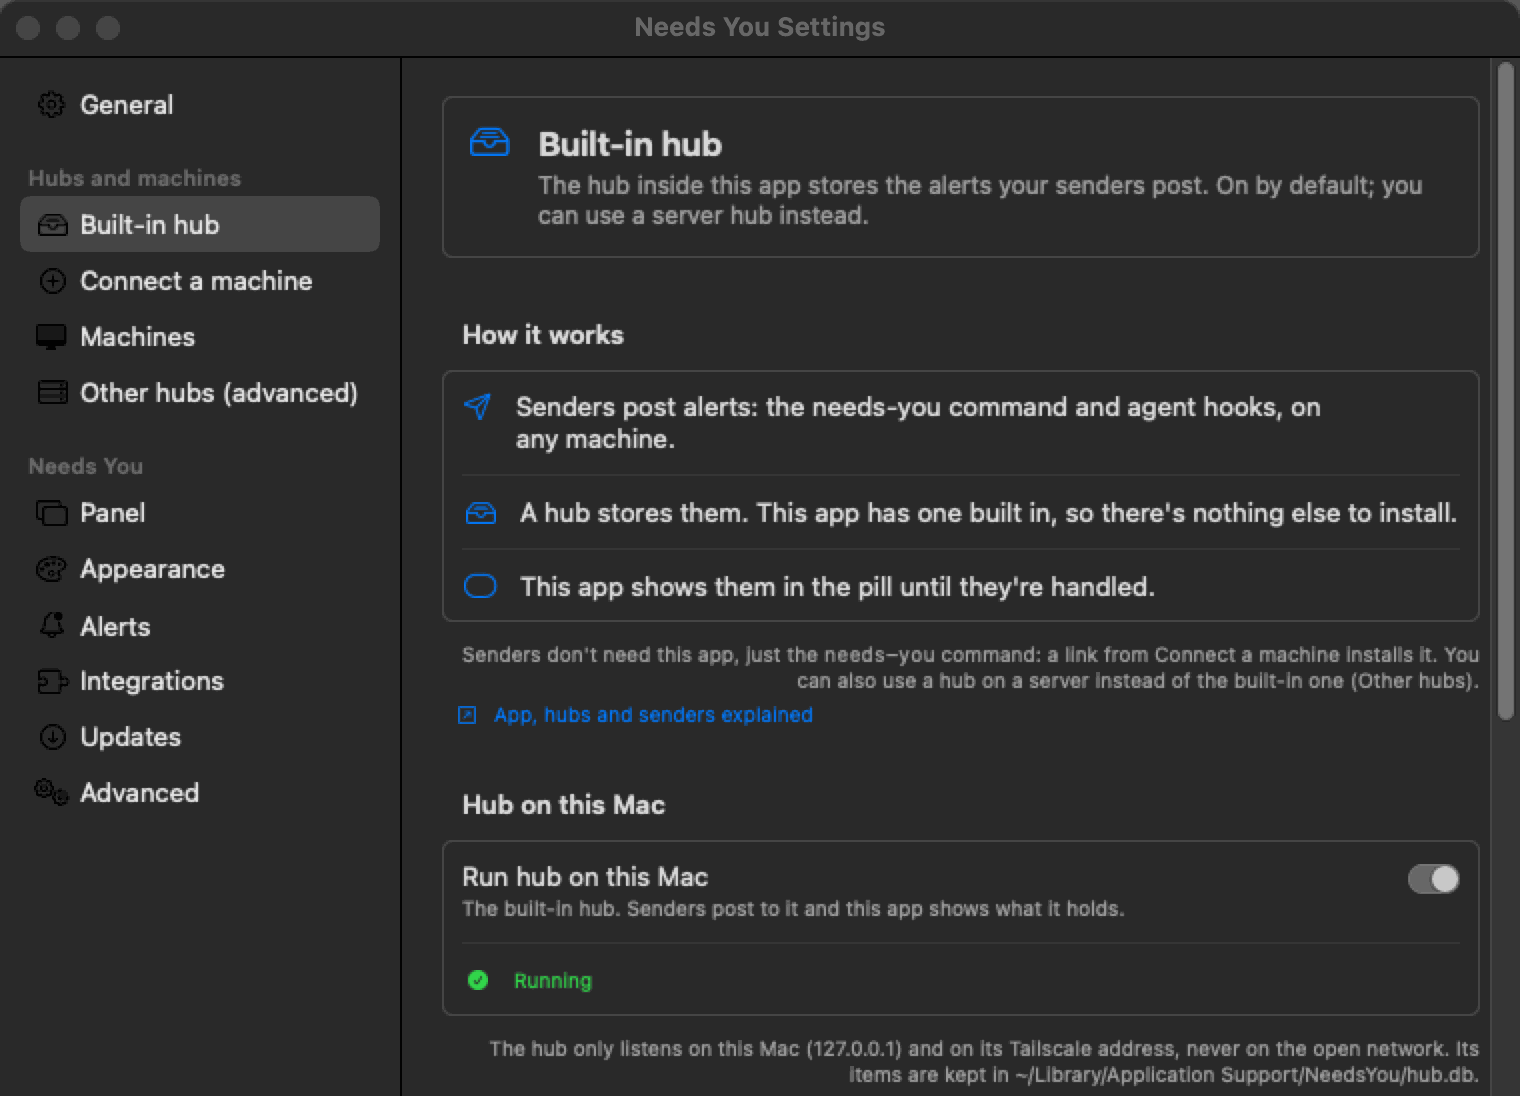
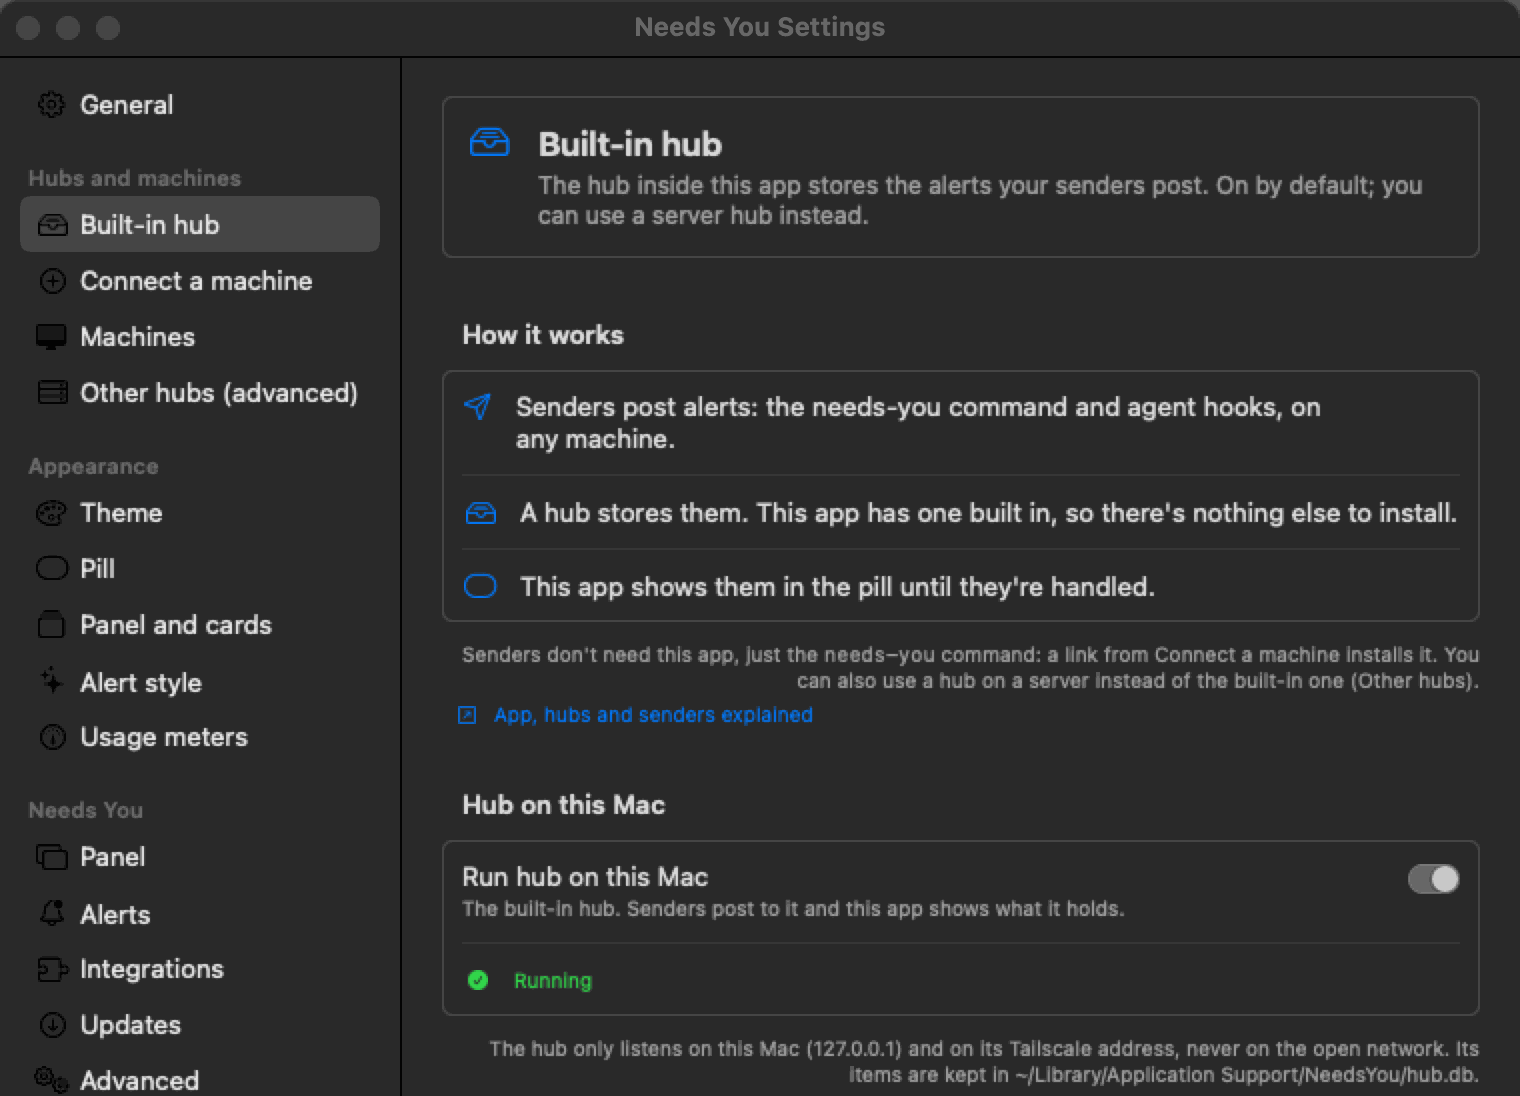
site: retake the screenshots after the appearance work (default look: Rounded, Medium, Comfortable, Glass)
The panel and the pills now show the usage meters; the pills are taller (46 pt) and the
Personal panel shows the usage section. Settings screenshots show the Appearance sidebar group.
Alt text follows.

diff --git a/site/guides/mac-app.html b/site/guides/mac-app.html
@@ -73,7 +73,7 @@
 <p>The exact settings and how the app passes options to its hub are in <a data-repo="/blob/main/mac/README.md" href="https://github.com/tayharris/needs-you/blob/main/mac/README.md">mac/README.md</a>.</p>
 <h2 id="using-it">Using it <a class="anchor" href="#using-it" aria-label="Link to this section">#</a></h2>
 <figure class="doc-fig">
-<div class="stage"><img src="../img/panel.png" width="376" height="926" alt="The open panel on the Work tab: an urgent deploy approval with three links, a Claude is waiting card with a three-step checklist, a CI failure with a link to the run, and a low-priority branch cleanup, each with Done, Dismiss and Snooze." loading="lazy" decoding="async"></div>
+<div class="stage"><img src="../img/panel.png" width="376" height="926" alt="The open panel on the Work tab: usage meters for Claude and Codex at the top, then an urgent deploy approval with three links, a Claude is waiting card with a three-step checklist, and a CI failure with copy chips and a link to the run, each with Done, Dismiss and Snooze." loading="lazy" decoding="async"></div>
 </figure>
 <div class="table-wrap"><table class="doc-table">
 <thead><tr><th>You see</th><th>It means</th></tr></thead>
@@ -88,14 +88,14 @@
 </table></div>
 <p>The pill when nothing needs you, with 4 work items and 1 personal one waiting (count only, then split work | personal and count and top item), and a new item springing out:</p>
 <figure class="doc-fig">
-<div class="stage"><img src="../img/pill-idle.png" width="147" height="43" alt="The idle pill: Nothing needs you, with session and weekly usage bars under it." loading="lazy" decoding="async"> <img src="../img/pill-count.png" width="66" height="38" alt="The count pill: 4, with 1 personal shown faintly, in a red ring." loading="lazy" decoding="async"> <img src="../img/pill-split.png" width="90" height="38" alt="The split pill: W 4, P 1." loading="lazy" decoding="async"> <img src="../img/pill-top-item.png" width="248" height="38" alt="The pill showing the count and the top item&#x27;s title." loading="lazy" decoding="async"></div>
+<div class="stage"><img src="../img/pill-idle.png" width="147" height="43" alt="The idle pill: Nothing needs you, with session and weekly usage bars under it." loading="lazy" decoding="async"> <img src="../img/pill-count.png" width="66" height="46" alt="The count pill: 4, with 1 personal shown faintly, in a red ring, with usage bars under it." loading="lazy" decoding="async"> <img src="../img/pill-split.png" width="90" height="46" alt="The split pill: W 4, P 1." loading="lazy" decoding="async"> <img src="../img/pill-top-item.png" width="248" height="46" alt="The pill showing the count and the top item&#x27;s title." loading="lazy" decoding="async"></div>
 </figure>
 <figure class="doc-fig">
 <div class="stage"><img src="../img/preview.png" width="336" height="94" alt="An arrival preview: Approve the prod deploy of api v2.14, needs you, from build-box, with a button reading Approve, then ci.example.com in fainter text, then an arrow." loading="lazy" decoding="async"></div>
 </figure>
 <p>The open panel shows one context at a time; the tab in its header switches (here, Personal):</p>
 <figure class="doc-fig">
-<div class="stage"><img src="../img/panel-personal.png" width="376" height="266" alt="The open panel on the Personal tab with one low-priority card: Renew example.org, it expires in 9 days, with a Registrar link." loading="lazy" decoding="async"></div>
+<div class="stage"><img src="../img/panel-personal.png" width="376" height="400" alt="The open panel on the Personal tab: the usage meters, then one low-priority card: Renew example.org, it expires in 9 days, with a Registrar link." loading="lazy" decoding="async"></div>
 </figure>
 <ul>
 <li><strong>Click</strong> the pill to expand the cards. A click anywhere else closes it, as do <strong>Escape</strong>, the chevron, a double-click on the header bar and the shortcut. To keep it up while you read a card next to the page its link opened, turn off <strong>Settings → Panel → Open panel → Collapse when clicking elsewhere</strong>. If the glass is hard to read over bright windows, raise <strong>Settings → Appearance → Panel and cards → Background darkness</strong>.</li>

diff --git a/site/index.html b/site/index.html
@@ -154,7 +154,7 @@
         <figure class="shot see-panel">
           <div class="stage">
             <img src="img/panel.png" width="376" height="926" loading="lazy" decoding="async"
-                 alt="The open panel on the Work tab with four cards. Urgent: Approve the prod deploy of api v2.14, from build-box, with Approve, Canary dashboard and Slack thread links. Normal: Claude is waiting for you on acme-web, with a three-step checklist whose first step is ticked; and CI failed on main for acme-web, with a link to the run. Low: a branch with 2 unpushed commits. Each card has Done, Dismiss and Snooze.">
+                 alt="The open panel on the Work tab. At the top, usage meters: Claude on devbox at 86% of its session (amber) and 41% weekly, Codex on build-box at 23% and 58%. Urgent: Approve the prod deploy of api v2.14, from build-box, with Approve, Canary dashboard and Slack thread links. Normal: Claude is waiting for you on acme-web, with a three-step checklist whose first step is ticked; and CI failed on main for acme-web, with copy chips for the failing test and file and a link to the run. Each card has Done, Dismiss and Snooze.">
           </div>
           <figcaption>Click the pill for the cards, most urgent first, each with its links, steps, and Done, Dismiss and Snooze.</figcaption>
         </figure>
@@ -168,10 +168,10 @@
           </li>
           <li>
             <span class="state-shot">
-              <img src="img/pill-count.png" width="66" height="38" loading="lazy" decoding="async"
-                   alt="The count pill with a red ring: 4 work items, and 1 personal shown faintly.">
-              <img src="img/pill-split.png" width="90" height="38" loading="lazy" decoding="async"
-                   alt="The same pill split by context: W 4, P 1.">
+              <img src="img/pill-count.png" width="66" height="46" loading="lazy" decoding="async"
+                   alt="The count pill with a red ring: 4 work items, and 1 personal shown faintly, with session and weekly usage bars under the count.">
+              <img src="img/pill-split.png" width="90" height="46" loading="lazy" decoding="async"
+                   alt="The same pill split by context: W 4, P 1, with its usage bars.">
             </span>
             <p><strong>Something waiting.</strong> A count, ringed in the top priority's colour: red is urgent, amber normal, slate low. It can split work and personal.</p>
           </li>

diff --git a/site/guides/testers.html b/site/guides/testers.html
@@ -154,10 +154,10 @@ shasum -a 256 -c SHA256SUMS --ignore-missing     # the DMG's line should say OK<
 <h2 id="7-what-to-try">7. What to try <a class="anchor" href="#7-what-to-try" aria-label="Link to this section">#</a></h2>
 <p>Tick off what you get to; anything that surprises you is worth a report. With a few items waiting, the pill shows a count, a new one springs out for a moment, and a click opens the cards (these are example items):</p>
 <figure class="doc-fig">
-<div class="stage"><img src="../img/pill-count.png" width="66" height="38" alt="The count pill: 4, with 1 personal item shown faintly, in a red ring." loading="lazy" decoding="async"> <img src="../img/preview.png" width="336" height="94" alt="An arrival preview: Approve the prod deploy of api v2.14, needs you, from build-box, with a button reading Approve, then ci.example.com in fainter text, then an arrow." loading="lazy" decoding="async"></div>
+<div class="stage"><img src="../img/pill-count.png" width="66" height="46" alt="The count pill: 4, with 1 personal item shown faintly, in a red ring, with usage bars under it." loading="lazy" decoding="async"> <img src="../img/preview.png" width="336" height="94" alt="An arrival preview: Approve the prod deploy of api v2.14, needs you, from build-box, with a button reading Approve, then ci.example.com in fainter text, then an arrow." loading="lazy" decoding="async"></div>
 </figure>
 <figure class="doc-fig">
-<div class="stage"><img src="../img/panel.png" width="376" height="926" alt="The open panel on the Work tab: an urgent deploy approval with three links, a Claude is waiting card with a three-step checklist, a CI failure with a link to the run, and a low-priority branch cleanup, each with Done, Dismiss and Snooze." loading="lazy" decoding="async"></div>
+<div class="stage"><img src="../img/panel.png" width="376" height="926" alt="The open panel on the Work tab: usage meters for Claude and Codex at the top, then an urgent deploy approval with three links, a Claude is waiting card with a three-step checklist, and a CI failure with copy chips and a link to the run, each with Done, Dismiss and Snooze." loading="lazy" decoding="async"></div>
 </figure>
 <ul class="tasks">
 <li class="task"><p><input type="checkbox" disabled aria-label="to do"> <strong>Post and resolve an item</strong> from a connected machine:</p>

diff --git a/docs/guides/mac-app.md b/docs/guides/mac-app.md
@@ -36,7 +36,7 @@ The exact settings and how the app passes options to its hub are in [mac/README.
 
 ## Using it
 
-<img src="../../site/img/panel.png" width="376" alt="The open panel on the Work tab: an urgent deploy approval with three links, a Claude is waiting card with a three-step checklist, a CI failure with a link to the run, and a low-priority branch cleanup, each with Done, Dismiss and Snooze.">
+<img src="../../site/img/panel.png" width="376" alt="The open panel on the Work tab: usage meters for Claude and Codex at the top, then an urgent deploy approval with three links, a Claude is waiting card with a three-step checklist, and a CI failure with copy chips and a link to the run, each with Done, Dismiss and Snooze.">
 
 | You see | It means |
 |---|---|
@@ -49,13 +49,13 @@ The exact settings and how the app passes options to its hub are in [mac/README.
 
 The pill when nothing needs you, with 4 work items and 1 personal one waiting (count only, then split work | personal and count and top item), and a new item springing out:
 
-<img src="../../site/img/pill-idle.png" width="147" alt="The idle pill: Nothing needs you, with session and weekly usage bars under it."> &nbsp; <img src="../../site/img/pill-count.png" width="66" alt="The count pill: 4, with 1 personal shown faintly, in a red ring."> &nbsp; <img src="../../site/img/pill-split.png" width="90" alt="The split pill: W 4, P 1."> &nbsp; <img src="../../site/img/pill-top-item.png" width="248" alt="The pill showing the count and the top item's title.">
+<img src="../../site/img/pill-idle.png" width="147" alt="The idle pill: Nothing needs you, with session and weekly usage bars under it."> &nbsp; <img src="../../site/img/pill-count.png" width="66" alt="The count pill: 4, with 1 personal shown faintly, in a red ring, with usage bars under it."> &nbsp; <img src="../../site/img/pill-split.png" width="90" alt="The split pill: W 4, P 1."> &nbsp; <img src="../../site/img/pill-top-item.png" width="248" alt="The pill showing the count and the top item's title.">
 
 <img src="../../site/img/preview.png" width="336" alt="An arrival preview: Approve the prod deploy of api v2.14, needs you, from build-box, with a button reading Approve, then ci.example.com in fainter text, then an arrow.">
 
 The open panel shows one context at a time; the tab in its header switches (here, Personal):
 
-<img src="../../site/img/panel-personal.png" width="376" alt="The open panel on the Personal tab with one low-priority card: Renew example.org, it expires in 9 days, with a Registrar link.">
+<img src="../../site/img/panel-personal.png" width="376" alt="The open panel on the Personal tab: the usage meters, then one low-priority card: Renew example.org, it expires in 9 days, with a Registrar link.">
 
 - **Click** the pill to expand the cards. A click anywhere else closes it, as do **Escape**, the chevron, a double-click on the header bar and the shortcut. To keep it up while you read a card next to the page its link opened, turn off **Settings → Panel → Open panel → Collapse when clicking elsewhere**. If the glass is hard to read over bright windows, raise **Settings → Appearance → Panel and cards → Background darkness**.
 - Drag the open panel's free edge (the bottom, or the top when the panel sits in a bottom corner) to make the card list taller or shorter. It remembers the height; double-click the edge, or **Settings → Appearance → Panel and cards → Dragged height → Automatic**, to go back to fitting the cards.

diff --git a/docs/guides/testers.md b/docs/guides/testers.md
@@ -124,9 +124,9 @@ Re-running the line on the same machine is safe: it keeps the token and doesn't 
 
 Tick off what you get to; anything that surprises you is worth a report. With a few items waiting, the pill shows a count, a new one springs out for a moment, and a click opens the cards (these are example items):
 
-<img src="../../site/img/pill-count.png" width="66" alt="The count pill: 4, with 1 personal item shown faintly, in a red ring."> &nbsp; <img src="../../site/img/preview.png" width="336" alt="An arrival preview: Approve the prod deploy of api v2.14, needs you, from build-box, with a button reading Approve, then ci.example.com in fainter text, then an arrow.">
+<img src="../../site/img/pill-count.png" width="66" alt="The count pill: 4, with 1 personal item shown faintly, in a red ring, with usage bars under it."> &nbsp; <img src="../../site/img/preview.png" width="336" alt="An arrival preview: Approve the prod deploy of api v2.14, needs you, from build-box, with a button reading Approve, then ci.example.com in fainter text, then an arrow.">
 
-<img src="../../site/img/panel.png" width="376" alt="The open panel on the Work tab: an urgent deploy approval with three links, a Claude is waiting card with a three-step checklist, a CI failure with a link to the run, and a low-priority branch cleanup, each with Done, Dismiss and Snooze.">
+<img src="../../site/img/panel.png" width="376" alt="The open panel on the Work tab: usage meters for Claude and Codex at the top, then an urgent deploy approval with three links, a Claude is waiting card with a three-step checklist, and a CI failure with copy chips and a link to the run, each with Done, Dismiss and Snooze.">
 
 - [ ] **Post and resolve an item** from a connected machine:
 

diff --git a/README.md b/README.md
@@ -22,7 +22,7 @@ With the built-in hub there's nothing else to run: no server, no account, no clo
 
 <p>
 <img src="site/img/preview-agent.png" width="330" alt="A new card springing out of the pill: Claude needs permission: acme-api, from devbox, with a VS Code button.">
-<img src="site/img/panel.png" width="190" alt="The open panel: an urgent deploy approval with its links, Claude waiting for a decision with numbered steps, a failed CI run, and a low-priority cleanup.">
+<img src="site/img/panel.png" width="190" alt="The open panel: usage meters, an urgent deploy approval with its links, Claude waiting for a decision with numbered steps, and a failed CI run.">
 </p>
 
 ## Works with
